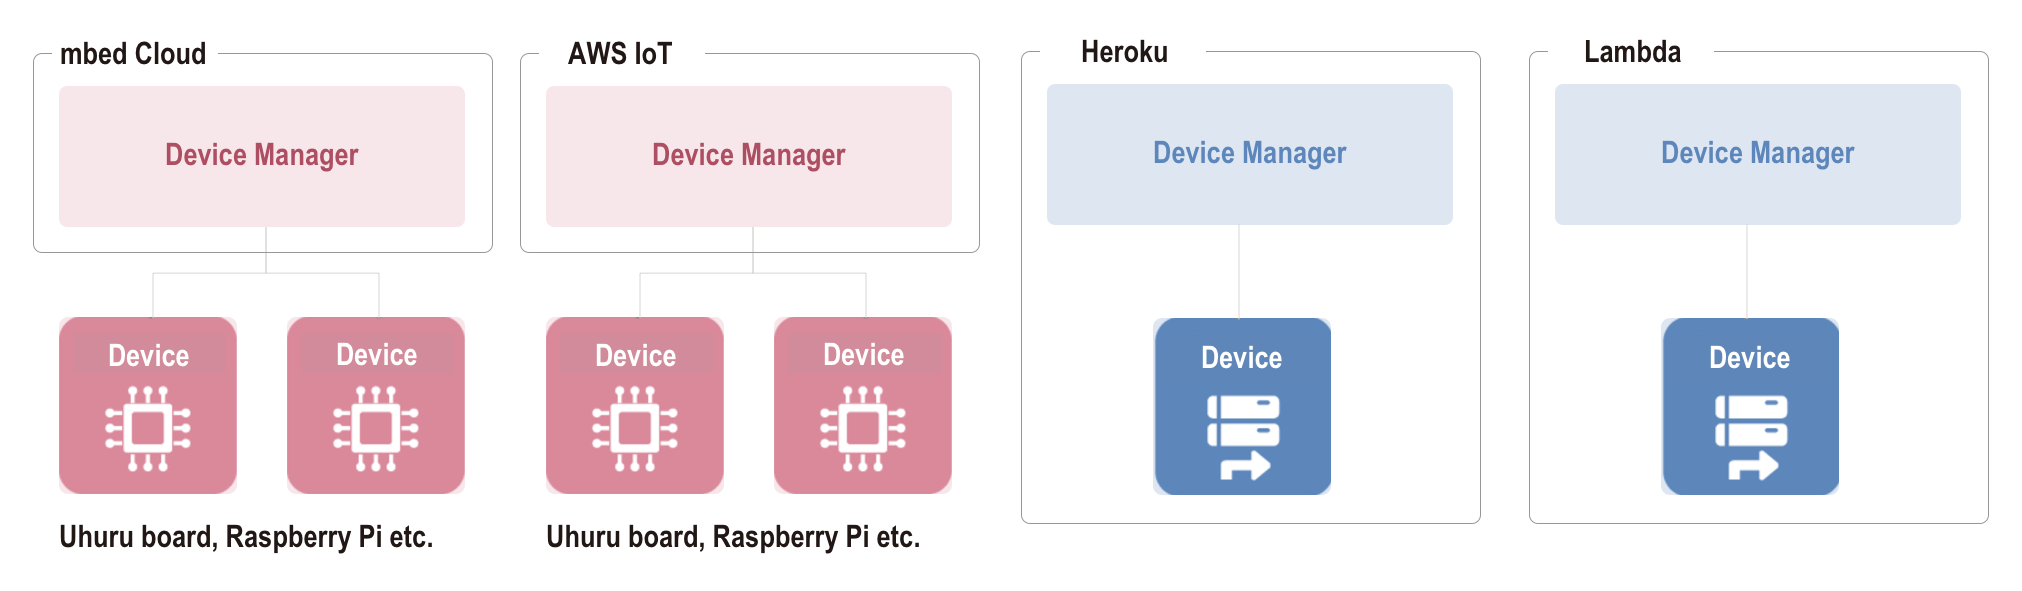
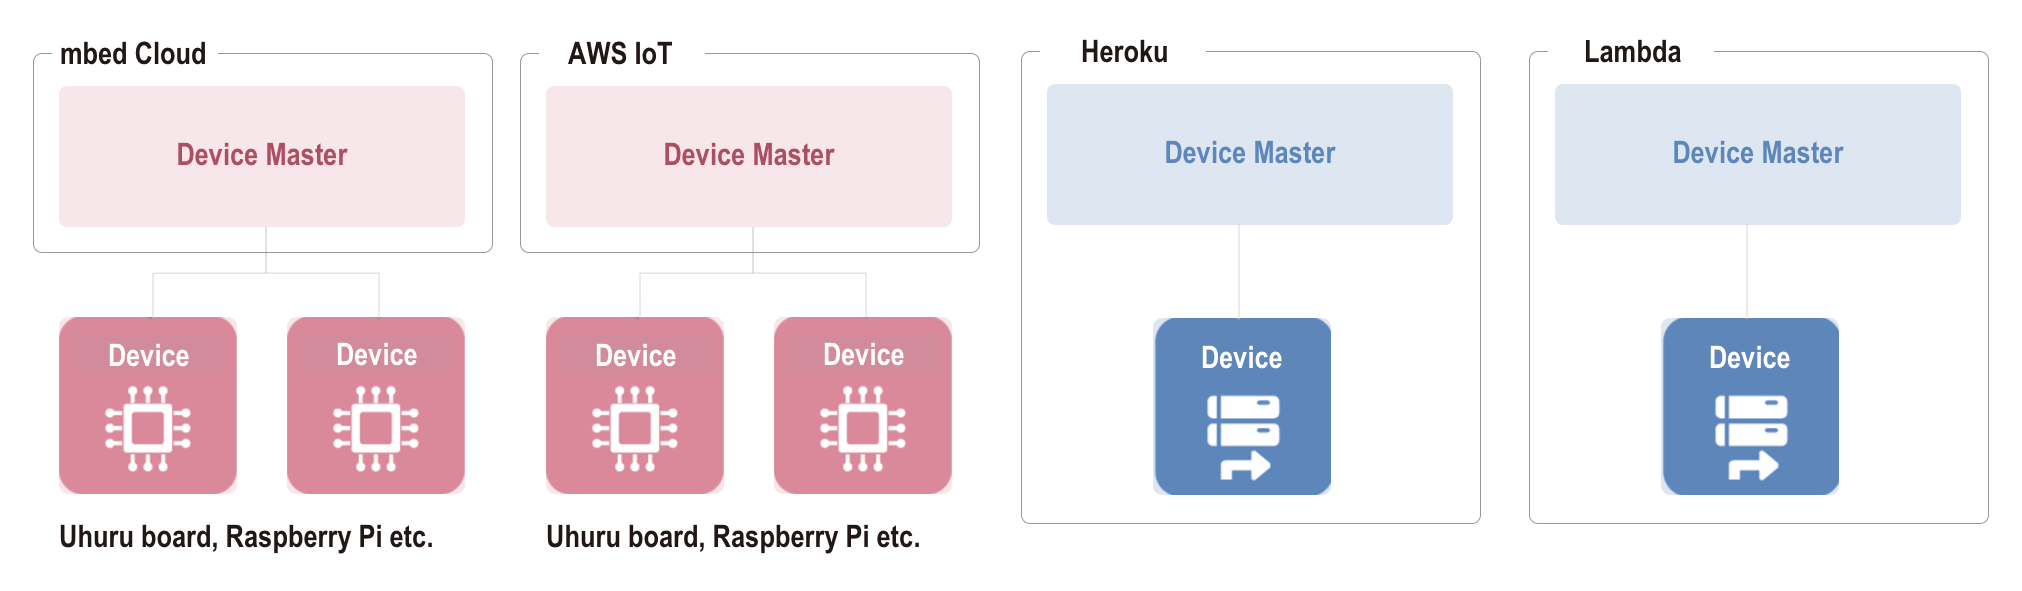
Device Manager -> Device Master

diff --git a/ja/Deploy/index.md b/ja/Deploy/index.md
@@ -19,13 +19,13 @@ Node-RED のフローエディタで作成したデータフローである Flow
 [Introduction](../INDEX.md) でも触れましたが、デプロイをする際に知っておくべき概念が2つあります
 
 - **デバイス**：アセットの実行環境となるデバイス本体
-- **デバイスマネージャー**：enebular からのデプロイのリクエストを受けてデバイスにデプロイを行ったり、デバイスの監視や enebular へのログ送信を行うデバイスの管理役
+- **デバイスマスター**：enebular からのデプロイのリクエストを受けてデバイスにデプロイを行ったり、デバイスの監視や enebular へのログ送信を行うデバイスのマスター
 
 ![deploy diagram](/_asset/images/Introduction/enebular-developers-deploy.png)
 
-AWS IoT や mbed Cloud などエッジデバイスにデプロイをするクラウドサービスの場合、エッジデバイスが**デバイス**となり、クラウドサービス自体は**デバイスマネージャー**となります。
+AWS IoT や mbed Cloud などエッジデバイスにデプロイをするクラウドサービスの場合、エッジデバイスが**デバイス**となり、クラウドサービス自体は**デバイスマスター**となります。
 
-Heroku や AWS Lambda などクラウド上に実行環境が存在する場合は、クラウドサービスが**デバイス**と**デバイスマネージャー**の両方の役割を担います。
+Heroku や AWS Lambda などクラウド上に実行環境が存在する場合は、クラウドサービスが**デバイス**と**デバイスマスター**の両方の役割を担います。
 
 具体的なデプロイ方法は以下になります。
 

diff --git a/en/INDEX.md b/en/INDEX.md
@@ -46,14 +46,14 @@ Developed assets can be deployed to devices via third-party services. Currently 
 While these services are utilized to deploy assets to devices, when doing a deploy there are two concepts that should be kept in mind.
 
 - **Device**: The device that will be the execution environment of the asset.
-- **Device Manager**: The managing role that accepts deploy requests from enebular and then deploys to the device, monitors the device and sends logs on to enebular.
+- **Device Master**: The managing role that accepts deploy requests from enebular and then deploys to the device, monitors the device and sends logs on to enebular.
 
 Let's look at an example of an actual service.
 
 ![deploy diagram](/_asset/images/Introduction/enebular-developers-deploy.png)
 
-For cloud services that deploy to edge devices like AWS IoT and mbed Cloud, the edge device is the **device** and the cloud service is the **device manager**.
+For cloud services that deploy to edge devices like AWS IoT and mbed Cloud, the edge device is the **device** and the cloud service is the **device master**.
 
-If the execution environment exists in the cloud as with Heroku and AWS Lambda, then the cloud service takes on both the **device** and **device manager** roles.
+If the execution environment exists in the cloud as with Heroku and AWS Lambda, then the cloud service takes on both the **device** and **device master** roles.
 
 The services to be used can be selected by the intended function of the assets being deployed. For example, AWS IoT and mbed Cloud can be used for deploying assets that require information from physical devices like sensors, and Heroku and AWS Lambda can be used and for deploying assets designed for other management processes.

diff --git a/en/Deploy/index.md b/en/Deploy/index.md
@@ -19,13 +19,13 @@ To have it run permanantly, it must be deployed to a device using a third party 
 As mentioned in the [Introduction](../INDEX.md), when doing a deploy there are two concepts that should be kept in mind.
 
 - **Device**: The device that will be the execution environment of the asset.
-- **Device Manager**: The managing role that accepts deploy requests from enebular and then deploys to the device, monitors the device and sends logs on to enebular.
+- **Device Master**: The managing role that accepts deploy requests from enebular and then deploys to the device, monitors the device and sends logs on to enebular.
 
 ![deploy diagram](/_asset/images/Introduction/enebular-developers-deploy.png)
 
-For cloud services that deploy to edge devices like AWS IoT and mbed Cloud, the edge device is the **device** and the cloud service is the **device manager**.
+For cloud services that deploy to edge devices like AWS IoT and mbed Cloud, the edge device is the **device** and the cloud service is the **device master**.
 
-If the execution environment exists in the cloud as with Heroku and AWS Lambda, then the cloud service takes on both the **device** and **device manager** roles.
+If the execution environment exists in the cloud as with Heroku and AWS Lambda, then the cloud service takes on both the **device** and **device master** roles.
 
 The actual methods of deploying are as follows.
 
